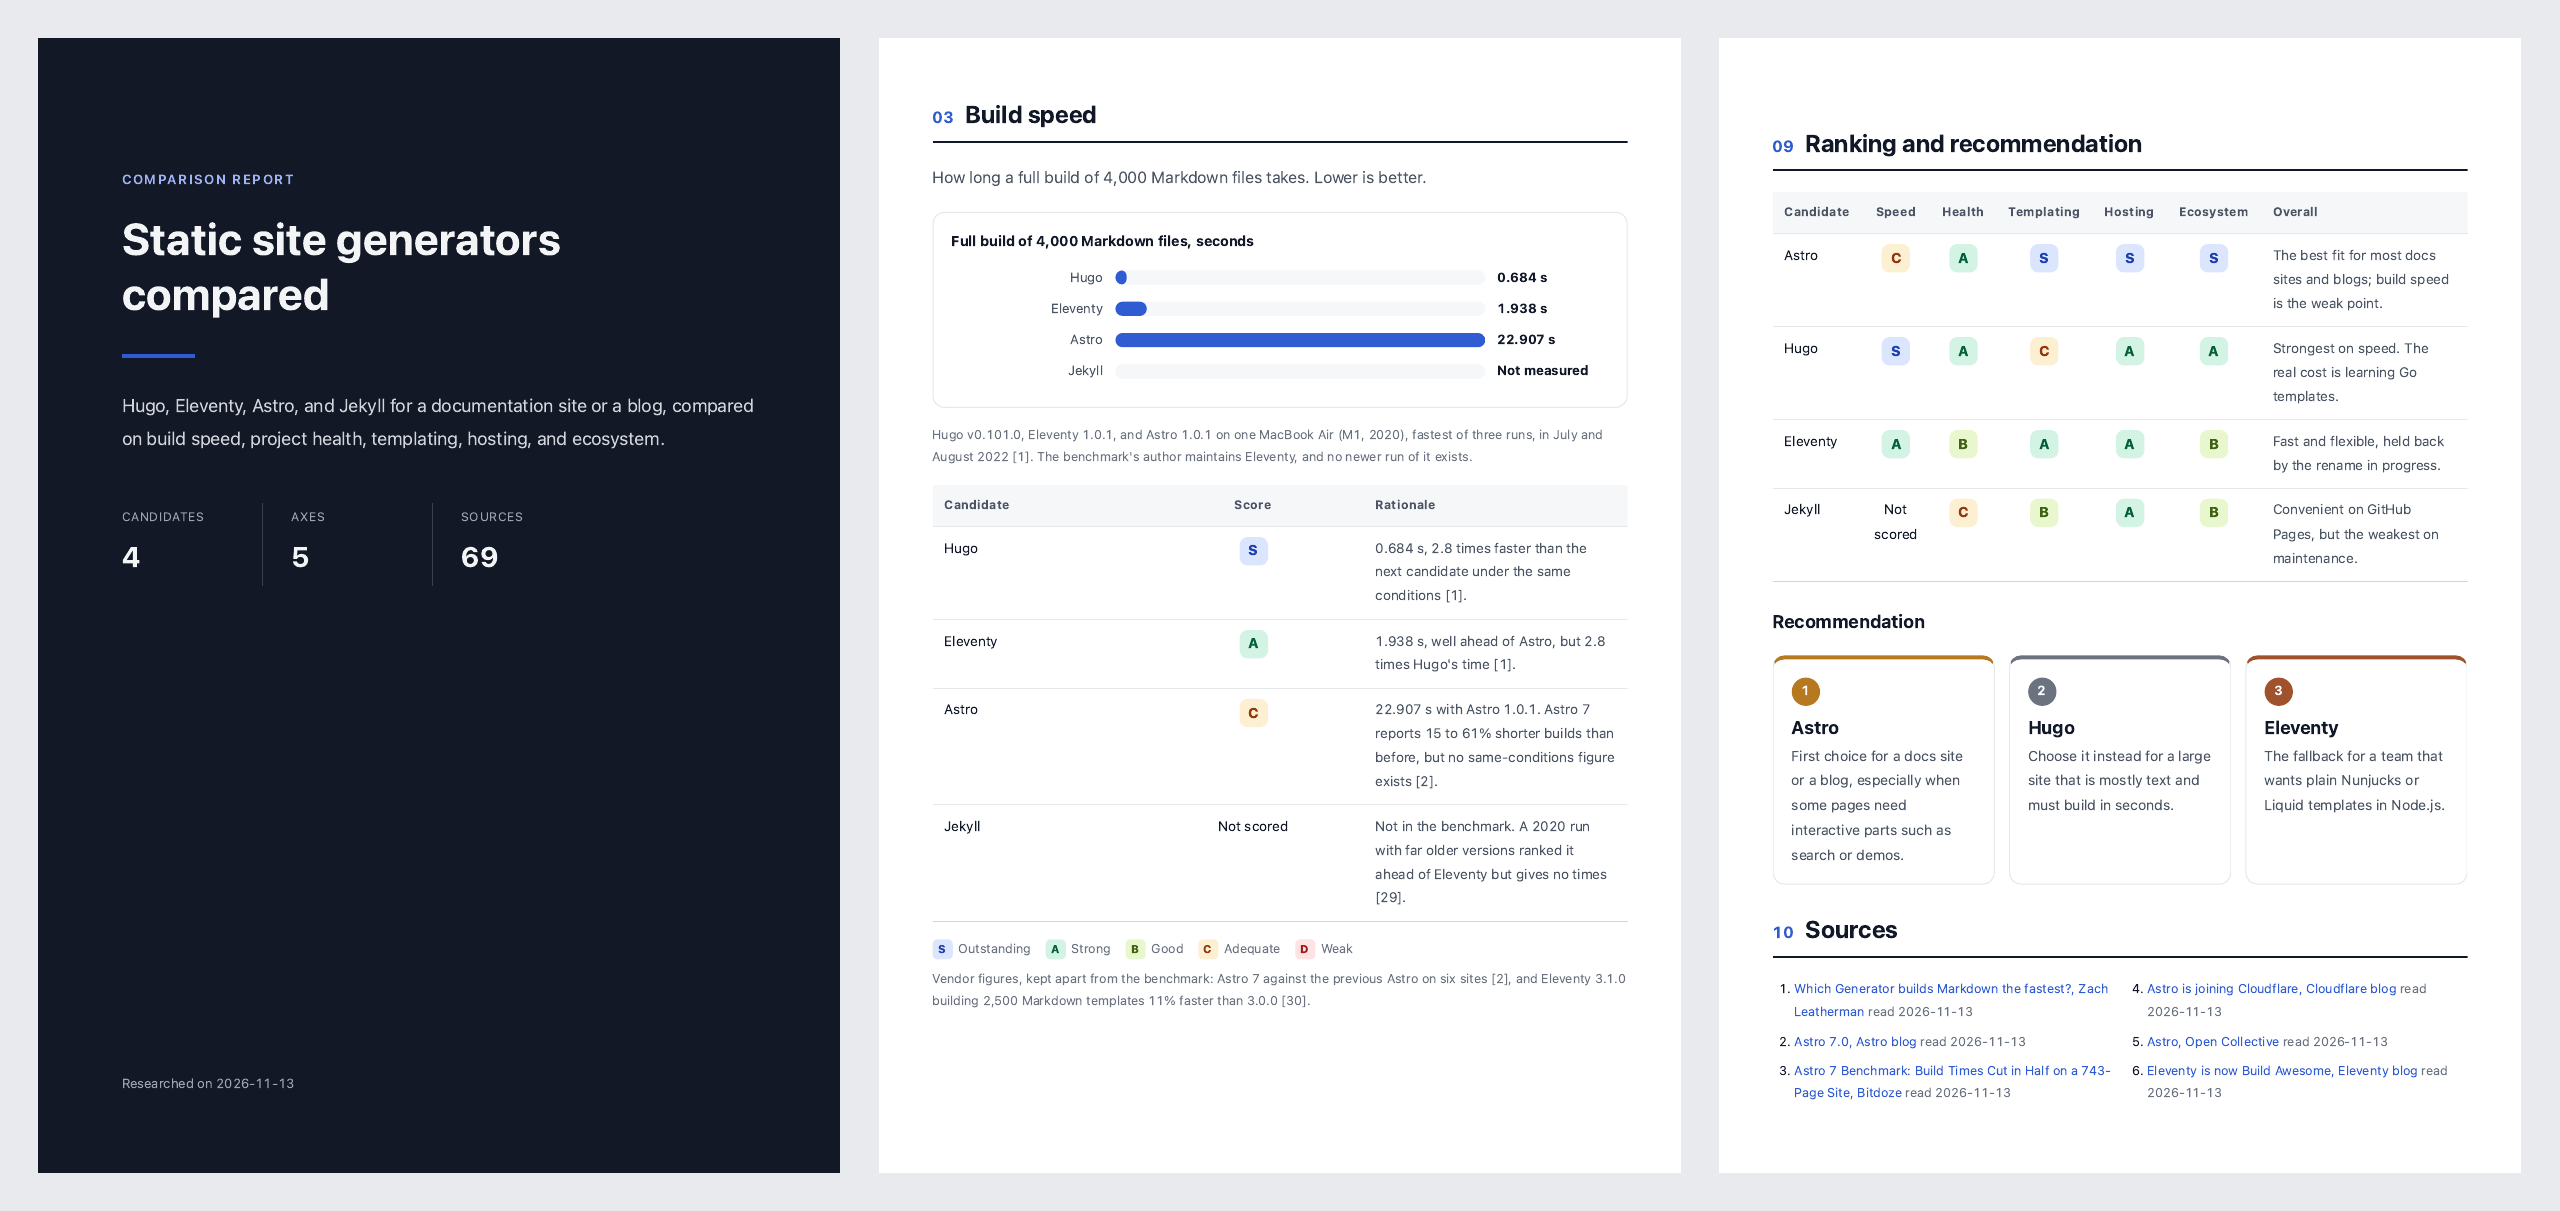
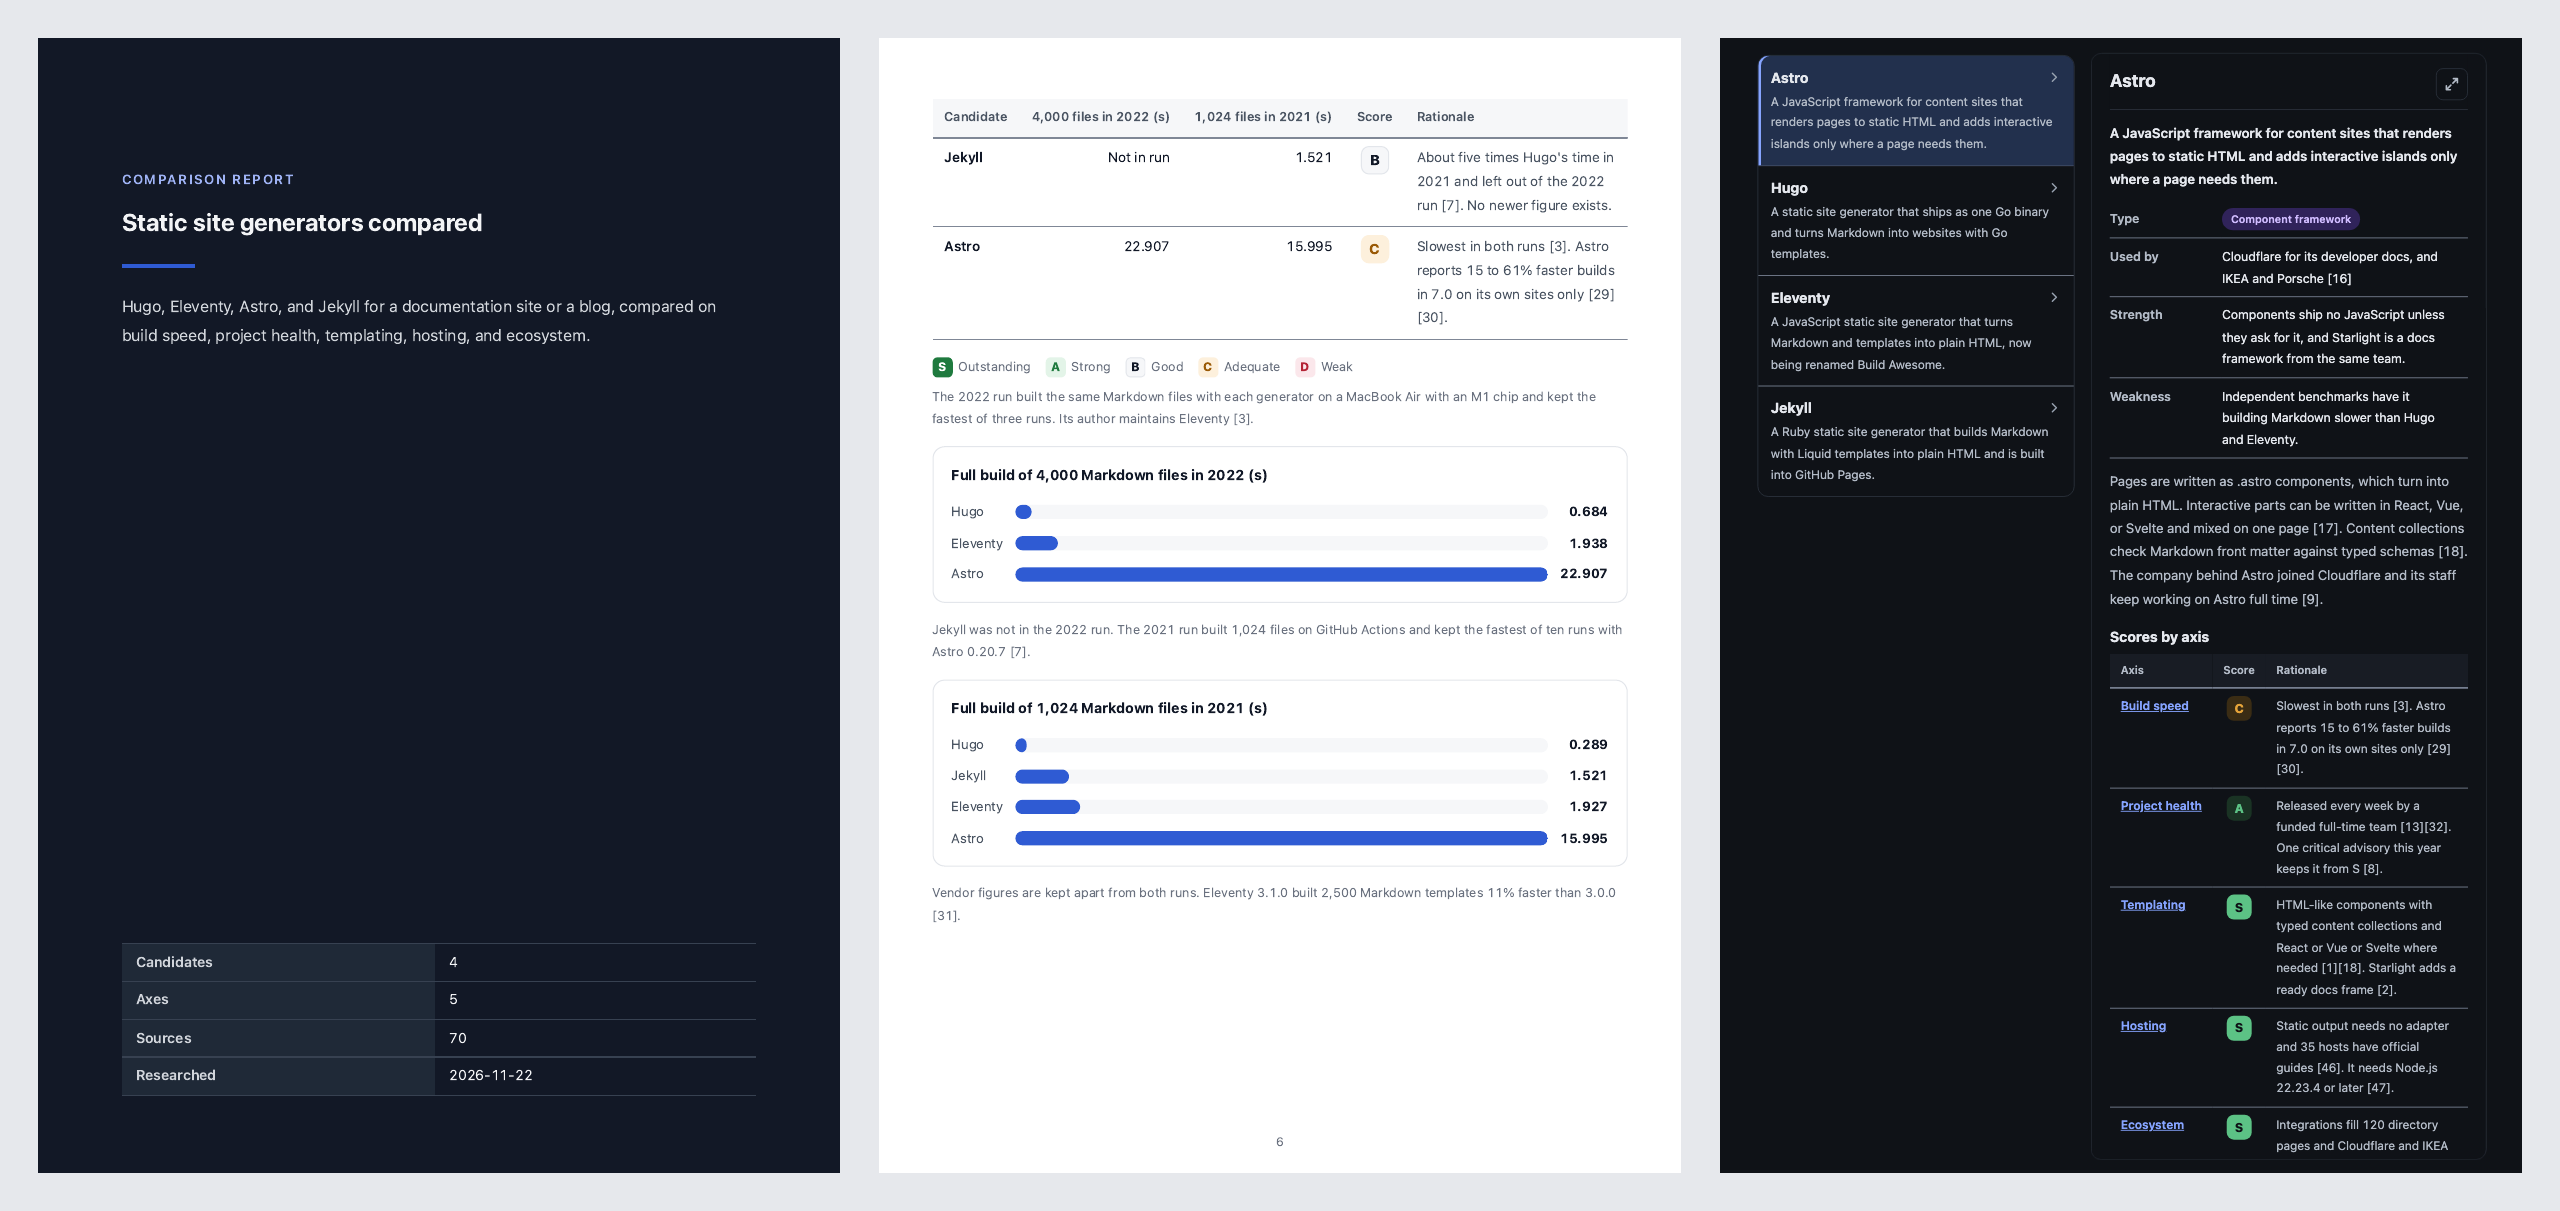
📝 docs(compare-report): take the README's screenshot from a report on the new template (#322)
The old screenshot showed the band of numbers on the cover and the old
tables. The new one comes from a report made by the skill's steps on the
same four generators and five axes, with one research subagent per
candidate, check-report.py and page-design's verify printing ok, and
to-pdf.sh. It shows the PDF cover with its facts table, the page with
the two build-time charts, and the candidate list beside the details of
Astro on screen in the dark colors.

Printing that report showed two page breaks to fix. A table's caption
and header row now stay with its first row, and the sentence under a
section heading stays with what follows it. The unused lead class is
gone.

diff --git a/plugins/compare-report/skills/compare-report/templates/base.html b/plugins/compare-report/skills/compare-report/templates/base.html
@@ -166,7 +166,6 @@ h2, h3 { line-height: 1.35; }
 .chapter > h2 { display: flex; gap: 12px; align-items: baseline; margin: 0 0 20px; padding-bottom: 10px; border-bottom: 2px solid var(--ink); font-size: 24px; }
 .chapter > h2::before { content: counter(chapter, decimal-leading-zero); color: var(--accent); font-size: 16px; font-weight: 700; }
 .chapter h3 { margin: 28px 0 10px; font-size: 18px; }
-.lead { margin: 0 0 20px; color: var(--muted); font-size: 16px; }
 .note { margin: 8px 0 0; color: var(--faint); font-size: 12.5px; }
 
 /* A warning, in its own block after what it belongs to, with an icon and a title that names the risk */
@@ -374,7 +373,7 @@ dialog.zoom::backdrop { background: var(--backdrop); }
   .page-break { break-after: page; }
   .table-wrap { max-height: none; overflow: visible; box-shadow: none; }
   .no-break, .picks, .pick, .card, .caution, .bars, .figure, .legend, tr { break-inside: avoid; }
-  h2, h3, h4, .lead { break-after: avoid; }
+  h2, h3, h4, .chapter > h2 + p, caption, thead { break-after: avoid; }
   a { color: inherit; text-decoration: none; }
   .sources a { color: var(--accent); }
 }

diff --git a/plugins/compare-report/CHANGELOG.md b/plugins/compare-report/CHANGELOG.md
@@ -15,7 +15,8 @@ Versions follow semantic versioning: a major release changes how the plugin is c
 - Each candidate card has a key in `data-candidate`, and the table rows name their candidate by it. `check-report.py` fails on a card without a key, on two cards with one key, and on a row whose key no card has
 - Risks are ordered most severe first, with an icon for each level, and the caution is titled with the risk itself. `check-report.py` fails on a caution titled only "Risk" or "Caution" and on a caution with `role="alert"`
 - When page-design is installed, the agent draws the bar charts with dragon and runs `dragon embed`, which draws them into the report as SVG. `check-report.py` fails while a dragon block is left undrawn. Without Node.js, the report keeps the CSS bar charts, which show the numbers only, with the unit in the chart title
-- Tables have captions and keep their header row in view inside a box that scrolls. Tables of six or more columns and tables that scroll sideways are striped, and a table that scrolls sideways keeps its name column in view and shows a shadow on the side that has more to scroll. A chart or a figure opens larger in a dialog when you press it
+- The README's screenshot comes from a new report on the same four static site generators, made by the skill's steps, and shows the facts table on the cover, the build-time charts, and the candidate list on screen
+- Tables have captions and keep their header row in view inside a box that scrolls. In the PDF, a table's caption and header row stay on the page of its first row, and the sentence under a section heading stays with what follows it. Tables of six or more columns and tables that scroll sideways are striped, and a table that scrolls sideways keeps its name column in view and shows a shadow on the side that has more to scroll. A chart or a figure opens larger in a dialog when you press it
 
 ## [0.5.0] - 2026-11-16
 

diff --git a/plugins/compare-report/skills/compare-report/references/report-structure.md b/plugins/compare-report/skills/compare-report/references/report-structure.md
@@ -48,6 +48,7 @@ The template numbers the sections, so do not number the headings yourself.
 
 ### One section per axis (`.axis`)
 
+- One sentence right under the heading on what the axis measures and which way is better
 - A table that compares every candidate on the axis, with a score and a rationale
 - A bar chart when the axis has numbers to compare, drawn as [Charts with dragon](#charts-with-dragon) describes
 - A `note` under each table or chart saying where the data comes from and under which conditions it was measured, written as [Figures in text](#figures-in-text) describes
@@ -314,5 +315,5 @@ The browser remembers the reader's choice, and print hides the switches.
 
 The template starts a new page after the cover, and lets the rest flow.
 Table rows, cards, cautions, and charts are never split across pages.
-A heading always stays on the same page as what follows it.
+A heading and the paragraph right under it stay on the same page as what follows them, and a table's caption and header row stay with its first row.
 Add `<div class="page-break"></div>` only before a section that must start on a new page, because a forced break leaves the rest of the page empty.

diff --git a/plugins/compare-report/README.ja.md b/plugins/compare-report/README.ja.md
@@ -4,7 +4,7 @@
 
 [English](README.md) · 日本語
 
-![4つの静的サイトジェネレーターを比べたレポートの表紙、ビルド時間の棒グラフと採点の表のページ、順位と推奨のページ](assets/screenshot.png)
+![4つの静的サイトジェネレーターを比べたレポートの、事実の表を載せたPDFの表紙、ビルド時間の棒グラフが2つ載ったPDFのページ、暗い色の画面で候補の一覧の横にAstroの詳細を出したところ](assets/screenshot.png)
 
 ツールの比較を頼むと、エージェントは根拠の無い点数を付けたり、提供元の主張と第三者の計測を混ぜたり、分からない所を推測で埋めたりしがちです。
 このプラグインは、代わりに従う1つのやり方をエージェントに渡します。

diff --git a/plugins/compare-report/README.md b/plugins/compare-report/README.md
@@ -4,7 +4,7 @@ Have your agent research the options for a choice and write a comparison report 
 
 English · [日本語](README.ja.md)
 
-![The cover, a page with a build-time chart and scored table, and the ranking page of a report comparing four static site generators](assets/screenshot.png)
+![From a report comparing four static site generators, the PDF cover with its facts table, a PDF page with two build-time charts, and the candidate list beside the details of Astro on screen in the dark colors](assets/screenshot.png)
 
 Asked to compare tools, an agent tends to hand out scores without evidence, mix vendor claims with independent measurements, and fill gaps with guesses.
 This plugin gives your agent one way to do it instead.
